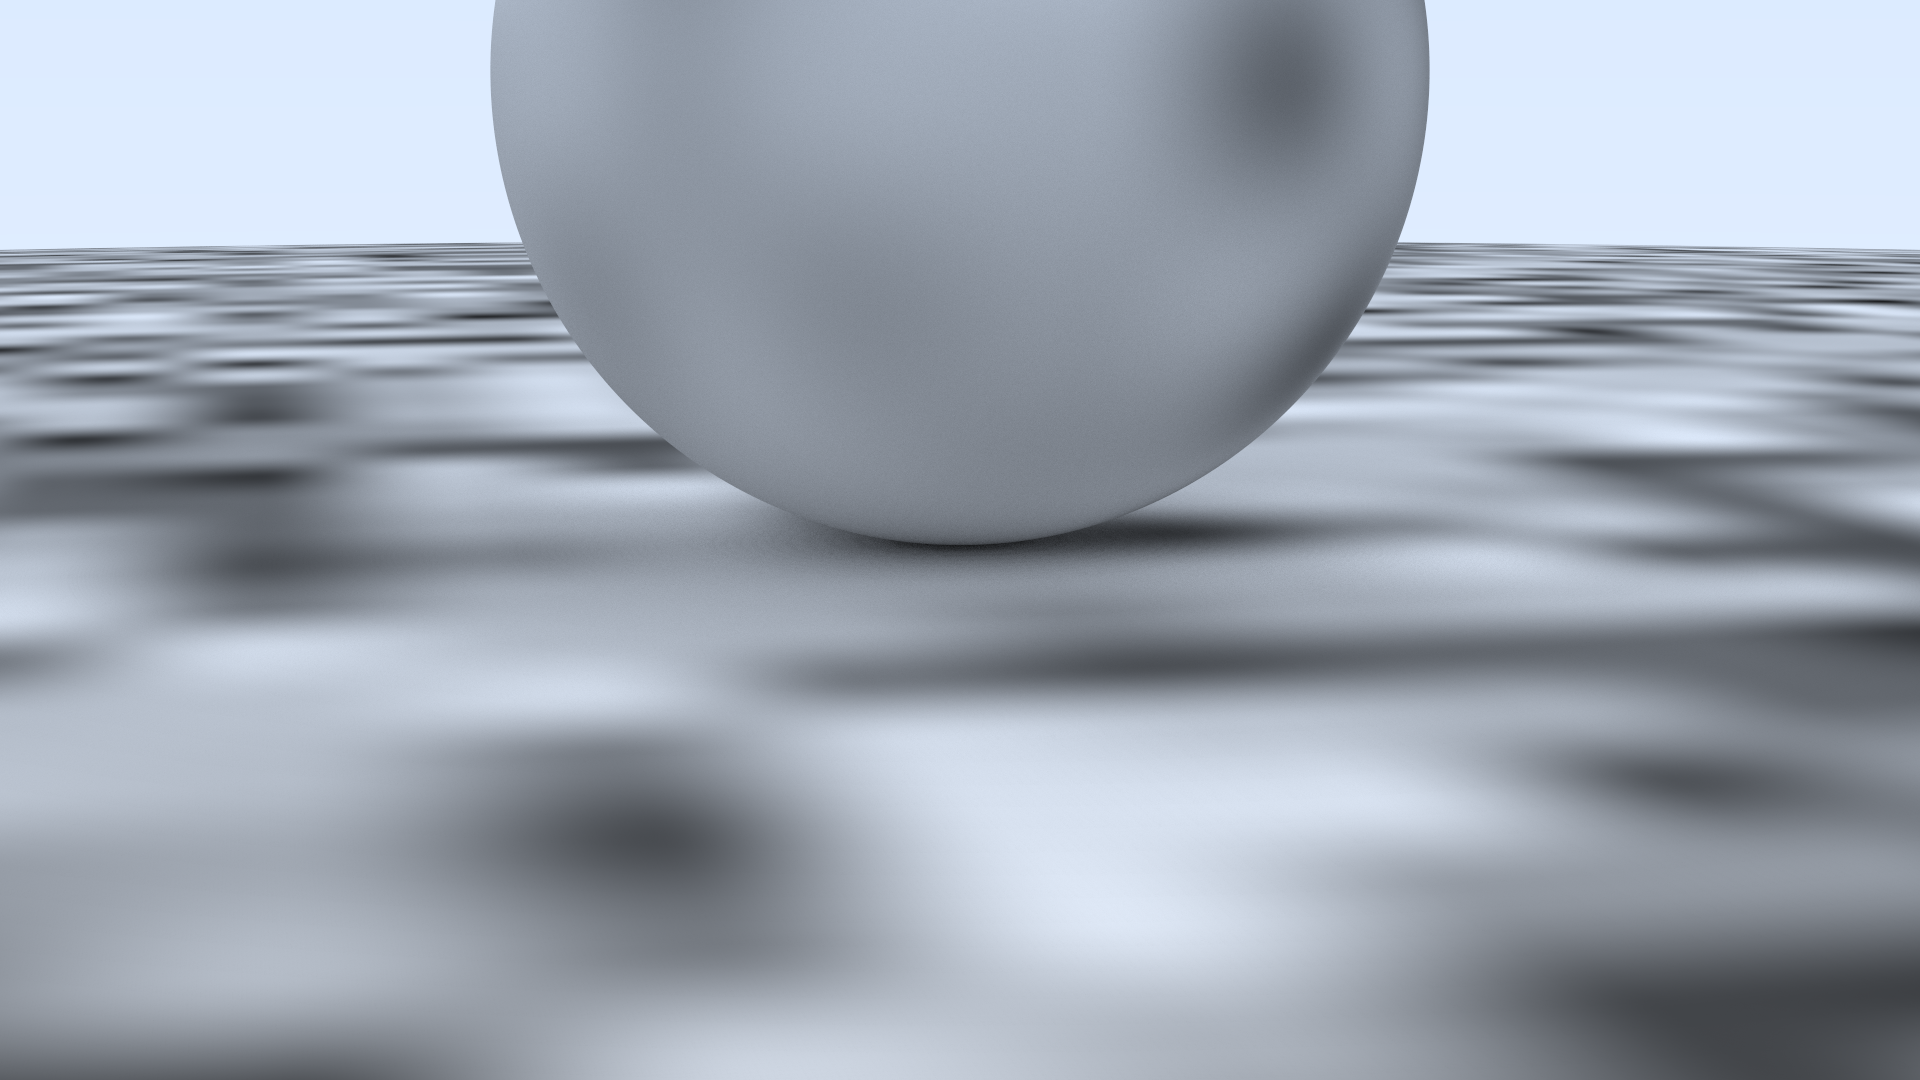
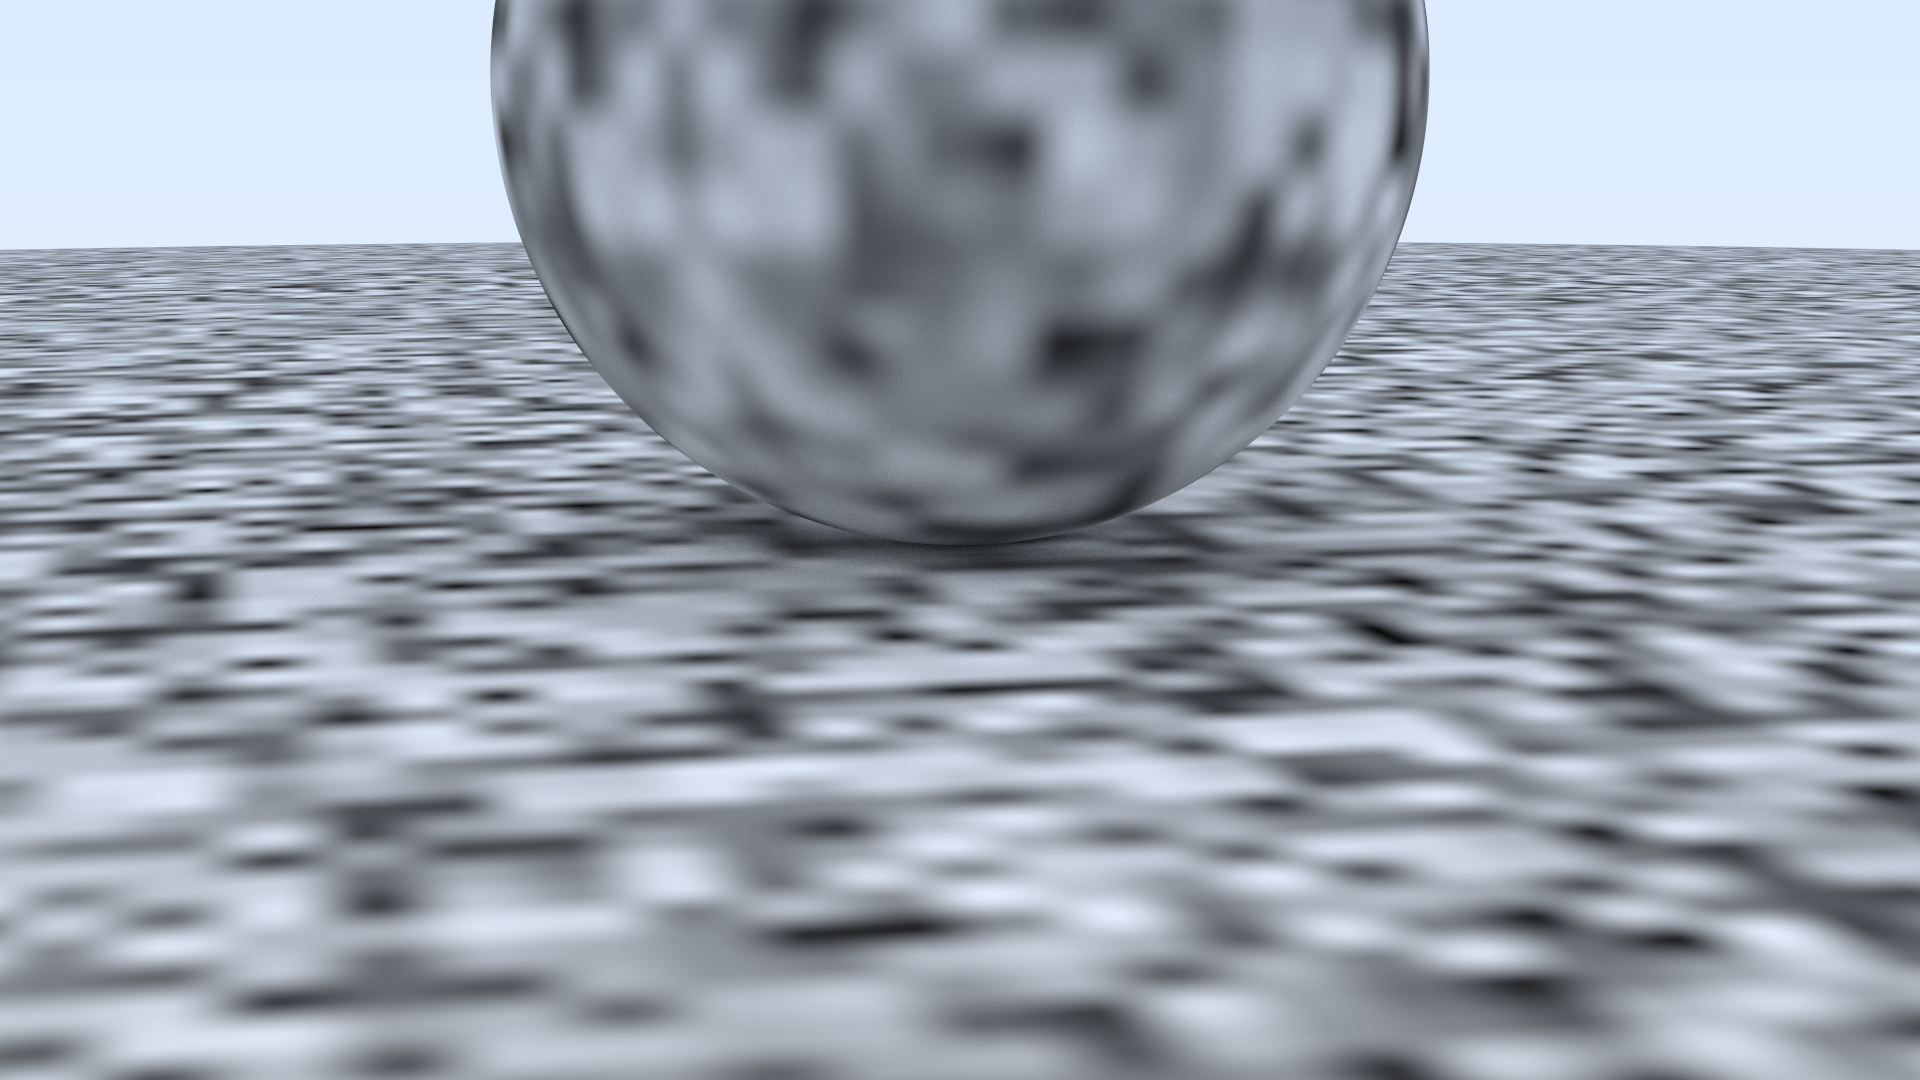
Perlin texture, higher frequency

diff --git a/texture.h b/texture.h
@@ -84,15 +84,16 @@ private:
 
 class noise_texture : public texture {
 public:
-    __device__ noise_texture(curandState &rand_state): noise(perlin(rand_state)) {
+    __device__ noise_texture(float scale, curandState &rand_state) : scale(scale), noise(perlin(rand_state)) {
     }
 
     __device__ color value(float u, float v, const point3 &p) const override {
-        return color(1, 1, 1) * noise.noise(p);
+        return color(1, 1, 1) * noise.noise(scale * p);
     }
 
 private:
     perlin noise;
+    float scale;
 };
 
 #endif // TEXTURE_H
